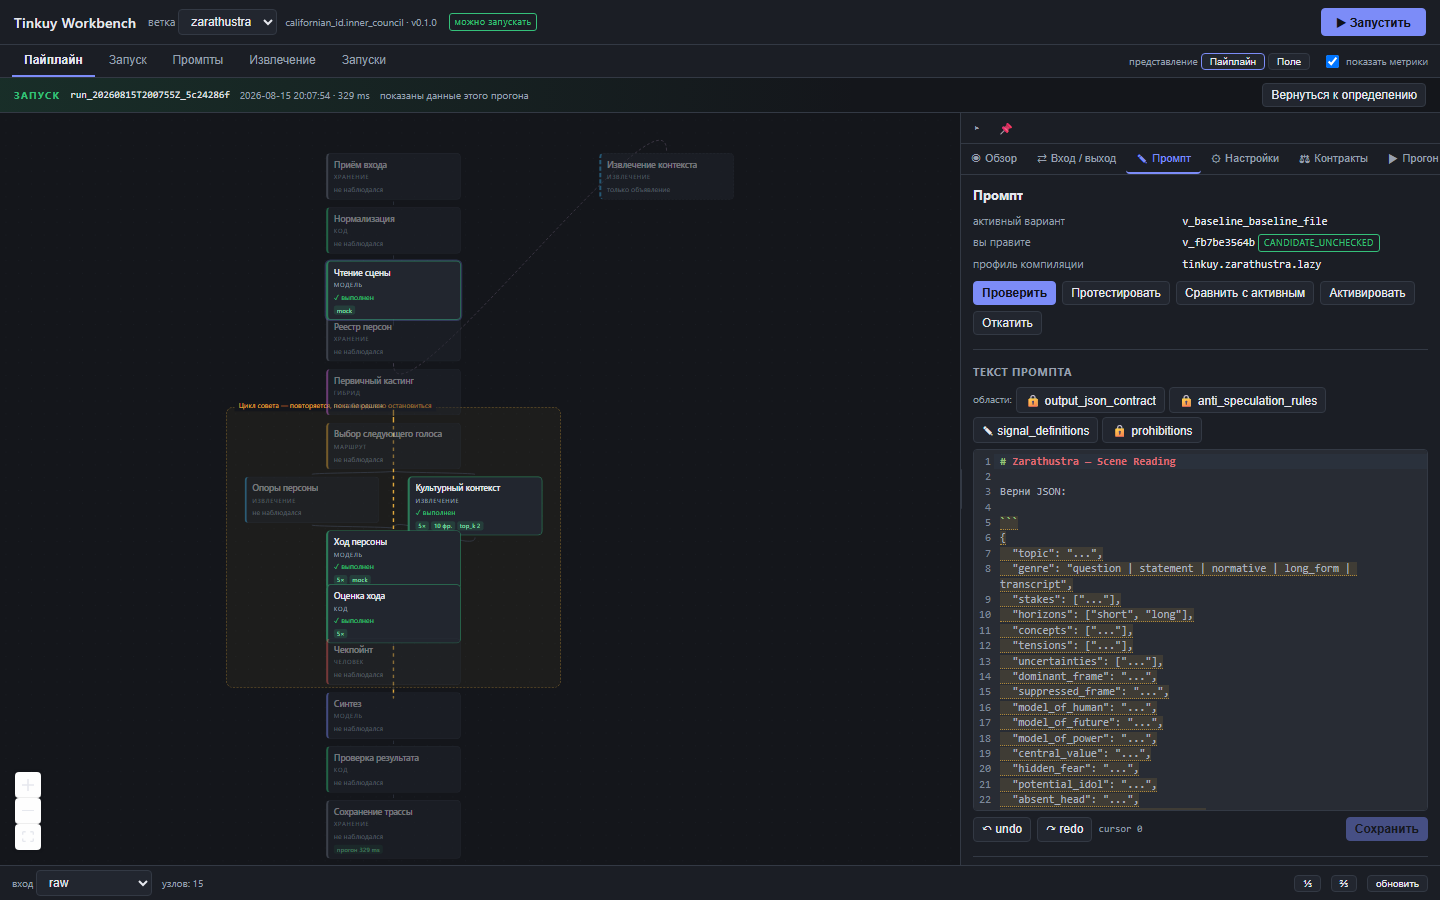
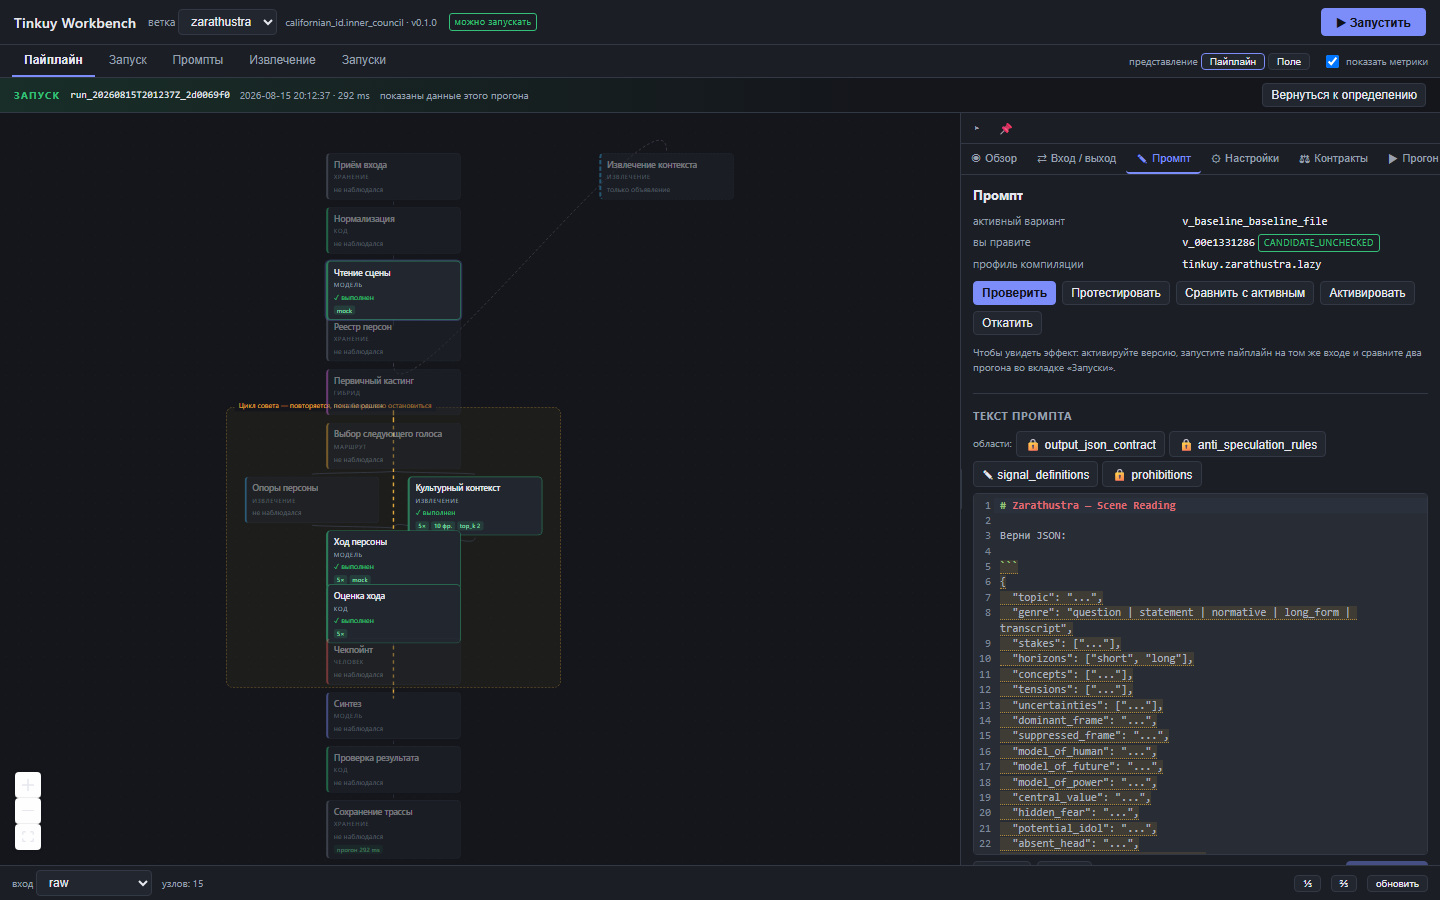
Answer 'how do I check my change worked' on screen
The final human pass found question 10 unanswered: nothing told a first-time
operator that verifying a change means run -> edit -> run on the SAME input ->
compare A/B. The landing panel now states that loop explicitly, and a cloned
prompt candidate repeats it where the change is actually being made.

diff --git a/CALIFORNIAN_ID/workbench_ui/src/App.tsx b/CALIFORNIAN_ID/workbench_ui/src/App.tsx
@@ -335,6 +335,18 @@ export function App() {
                   <li>«Извлечение» — как ищется контекст и с какими параметрами.</li>
                   {live ? <li>«Запустить» — прогнать реальный вход через пайплайн.</li> : null}
                 </ul>
+                {live ? (
+                  <>
+                    <h3>Как проверить, что изменение подействовало</h3>
+                    <ol className="ov-list" data-verify-loop>
+                      <li>Запустить пайплайн на выбранном входе.</li>
+                      <li>Изменить промпт или параметры извлечения и активировать
+                        новую версию.</li>
+                      <li>Запустить ещё раз на <b>том же входе</b>.</li>
+                      <li>«Запуски» → отметить два прогона как A и B → сравнить.</li>
+                    </ol>
+                  </>
+                ) : null}
                 <h3>Рантайм</h3>
                 <p className="ov-empty" data-runtime-empty>
                   Прогон не выбран — измерений нет.

diff --git a/CALIFORNIAN_ID/workbench_ui/src/components/Inspector.tsx b/CALIFORNIAN_ID/workbench_ui/src/components/Inspector.tsx
@@ -564,6 +564,12 @@ export function Inspector({
             <button onClick={() => onTabChange('contracts')}>подробности</button>
           </div>
         ) : null}
+        {!isBaseline ? (
+          <p className="dim" data-verify-hint>
+            Чтобы увидеть эффект: активируйте версию, запустите пайплайн на том
+            же входе и сравните два прогона во вкладке «Запуски».
+          </p>
+        ) : null}
         {smoke ? (
           <div className="row" data-prompt-smoke>
             <span className={`badge ${smoke.passed ? 'ok' : 'bad'}`}>
